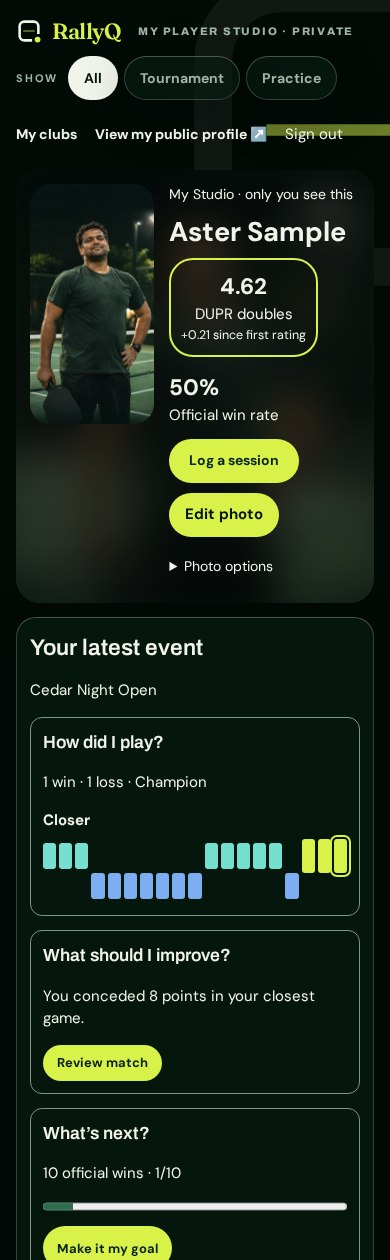
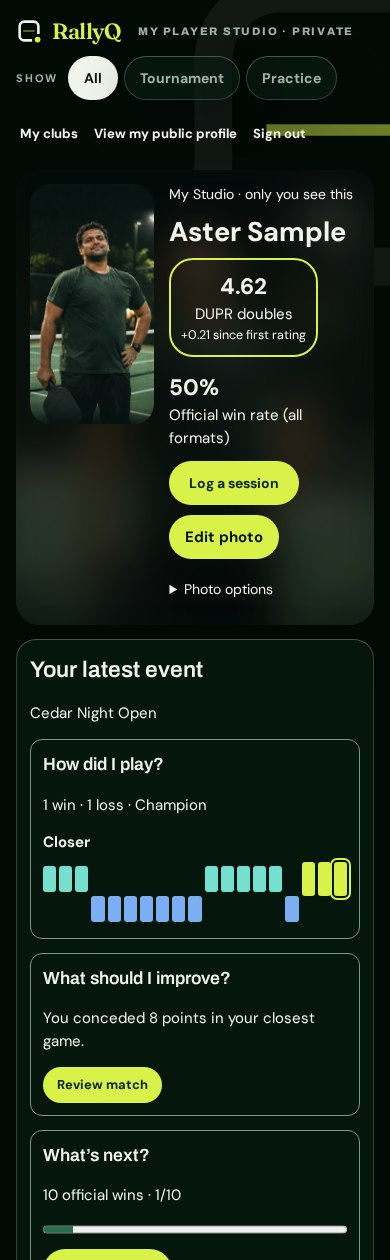
Address Player Studio P0 review

diff --git a/src/rallyq/studio/MyStudio.tsx b/src/rallyq/studio/MyStudio.tsx
@@ -31,7 +31,7 @@ const source=holes(raw,[
  // My tournaments (entries, status, next match) sits above the Studio panels.
  ['<div style="display:grid;grid-template-columns:repeat(auto-fit,minmax(min(100%,380px),1fr));gap:14px">','{{privateCover}}{{latestEvent}}<div>{{myTournaments}}</div><div style="display:grid;grid-template-columns:repeat(auto-fit,minmax(min(100%,380px),1fr));gap:14px">'],
  // Signed-in players can go to My clubs from here (organisers reach this page from My clubs).
- ['<a class="tlink" href="Studio.dc.html">View my public profile ↗</a>','<div class="row" style="gap:18px;flex-wrap:wrap;align-items:center"><a class="tlink" href="Overview.dc.html" style="display:inline-flex;align-items:center;min-height:44px">My clubs</a><sc-if value="{{hasProfile}}" hint-placeholder-val="{{ true }}"><a class="tlink" href="Studio.dc.html" style="display:inline-flex;align-items:center;min-height:44px">View my public profile ↗</a></sc-if><button class="tlink" onClick="{{signOut}}" style="display:inline-flex;align-items:center;min-height:44px;background:none;border:0;padding:0;font:inherit;cursor:pointer">Sign out</button></div>'],
+ ['<a class="tlink" href="Studio.dc.html">View my public profile ↗</a>','<nav class="studio-account-links" aria-label="Studio account"><a class="tlink" href="Overview.dc.html">My clubs</a><sc-if value="{{hasProfile}}" hint-placeholder-val="{{ true }}"><a class="tlink" href="Studio.dc.html">View my public profile</a></sc-if><button class="tlink" onClick="{{signOut}}">Sign out</button></nav>'],
  ['<div class="disp" style="font-size:32px">Goals and coach</div>','<div class="disp" style="font-size:32px">Goals and coach</div><div style="display:grid;grid-template-columns:minmax(0,1fr) 90px auto;gap:8px;align-items:center"><input value="{{goalNew}}" onChange="{{setGoalNew}}" placeholder="New goal, e.g. 4 drop-shot sessions" aria-label="Goal" style="min-height:44px;border-radius:12px;border:0;box-shadow:inset 0 0 0 1px rgba(11,36,24,.2);padding:0 12px;font:inherit;color:#0B2418;background:#FFFFFF;min-width:0"><input value="{{goalNewTarget}}" onChange="{{setGoalNewTarget}}" inputmode="numeric" placeholder="Target" aria-label="Target" style="min-height:44px;border-radius:12px;border:0;box-shadow:inset 0 0 0 1px rgba(11,36,24,.2);padding:0 10px;font:inherit;color:#0B2418;background:#FFFFFF;min-width:0"><button class="btn sm" style="background:#0B2418;color:#D9F24A!important" onClick="{{addGoal}}">Add</button></div><sc-if value="{{goalMsg}}" hint-placeholder-val="{{ false }}"><div style="font-size:12px;color:#4A5D50">{{goalMsg}}</div></sc-if><sc-if value="{{hasGoal}}" hint-placeholder-val="{{ false }}"><button class="btn sm" style="background:#2B6E4B;color:#FFFFFF!important;align-self:flex-start" onClick="{{goalStep}}">+1 on “{{goalTitle}}”</button></sc-if>'],
  ['points won on serve · {{scopeLabel}}','points won · {{scopeLabel}}'],
  ['<span>Comebacks from 5+ down</span><b>4</b>','<span>Comebacks after losing game 1</span><b>{{comebacks}}</b>'],
@@ -110,7 +110,7 @@ export function MyStudio({go,section}:{go:Go;section?:string}){
     <div className="studio-cover-metrics">
      <div className="studio-rating"><b>{rating?.toFixed(2)??'Unrated'}</b><span>DUPR {doubles.length?'doubles':singles.length?'singles':''}</span>
       {delta!==undefined&&<small>{delta>=0?'+':''}{delta.toFixed(2)} since first rating</small>}</div>
-     <div><b>{record.rate===undefined?'—':`${record.rate}%`}</b><br/>Official win rate</div>
+     <div><b>{record.rate===undefined?'—':`${record.rate}%`}</b><br/>Official win rate (all formats)</div>
     </div>
     {ui.f!=='Log'&&<button type="button" className="btn studio-action" onClick={onLog}>Log a session</button>}
     {COVER_UPLOAD&&<CoverEditor store={store} hasPhoto={!!data.photo} onSaved={state.reload} canPublish={!!me}/>}

diff --git a/e2e/tests/studio-p0.spec.ts b/e2e/tests/studio-p0.spec.ts
@@ -74,11 +74,14 @@ test('Studio covers, latest official event and a private practice match', async 
   await expect(cover).toContainText('1 of 1');
   await expect(cover).toContainText('Champion');
   const record = page.getByRole('region', { name: 'Record', exact: true });
-  await expect(record).toContainText('100%');
+  await expect(cover.getByText('Official wins', { exact: true })).toBeVisible();
+  await expect(page.getByText('Best run', { exact: true })).toHaveCount(1);
+  await expect(record.getByText('Best run', { exact: true })).toBeVisible();
+  await expect(record.getByText('Doubles win rate', { exact: true }).locator('..')).toContainText('100%');
   await expect(record).toContainText('Last 1');
   await record.getByRole('button', { name: 'Singles', exact: true }).click();
   await expect(record).toContainText('4.18');
-  await expect(record).toContainText('0%');
+  await expect(record.getByText('Singles win rate', { exact: true }).locator('..')).toContainText('0%');
   await record.getByRole('button', { name: 'Doubles', exact: true }).click();
 
   if (screenshots && info.project.name === 'android') {
@@ -95,6 +98,27 @@ test('Studio covers, latest official event and a private practice match', async 
   const privateCover = page.getByRole('region', { name: 'Private Athlete cover', exact: true });
   const story = page.getByRole('region', { name: 'Your latest event', exact: true });
   await expect(privateCover).toContainText('+0.21 since first rating');
+  await expect(privateCover.getByText(/Official win rate \(all formats\)/)).toContainText('50%');
+  const account = page.getByRole('navigation', { name: 'Studio account' });
+  await expect(account.getByRole('link', { name: 'My clubs', exact: true })).toBeVisible();
+  await expect(account.getByRole('link', { name: 'View my public profile', exact: true })).toBeVisible();
+  await expect(account.getByRole('button', { name: 'Sign out', exact: true })).toBeVisible();
+  for (const width of [320, 390]) {
+    await page.setViewportSize({ width, height: 800 });
+    const targets = await account.locator('a, button').evaluateAll(items => items.map(item => {
+      const target = item.getBoundingClientRect();
+      const text = document.createRange();
+      text.selectNodeContents(item);
+      return { height: target.height, width: target.width, textTop: text.getBoundingClientRect().top };
+    }));
+    for (const target of targets) {
+      expect(target.height).toBeGreaterThanOrEqual(44);
+      expect(target.width).toBeGreaterThanOrEqual(44);
+      expect(target.textTop).toBeCloseTo(targets[0].textTop, 0);
+    }
+    expect(await page.evaluate(() => document.documentElement.scrollWidth)).toBeLessThanOrEqual(width);
+  }
+  await page.setViewportSize({ width: 320, height: 800 });
   await expect(story).toContainText('Cedar Night Open');
   await expect(story).toContainText('1 win · 1 loss');
   await expect(story.getByLabel('Best match DNA')).toBeVisible();

diff --git a/src/rallyq/studio/PublicProfile.smoke.test.tsx b/src/rallyq/studio/PublicProfile.smoke.test.tsx
@@ -1,4 +1,4 @@
-import {fireEvent,render,screen,waitFor} from '@testing-library/react';
+import {fireEvent,render,screen,waitFor,within} from '@testing-library/react';
 import {expect,it,vi} from 'vitest';
 import {parseRoute} from '../../navigation';
 import {PublicProfile} from './PublicProfile';
@@ -7,3 +7,15 @@ vi.mock('../social/posterExport',()=>({posterPng:vi.fn(async()=>new Blob(['png']
 vi.mock('../private/backend',async()=>{const actual=await vi.importActual<typeof import('../private/backend')>('../private/backend');return{...actual,loadPublicPlayer:vi.fn(async(id:string)=>({...actual.samplePublicPlayer(),playerId:id}))}});
 it('opens the staged public-player hash through its real profile component',async()=>{const id='c5aad885-de92-4e28-a5cd-976ea7e9198c';window.location.hash='#/public-player/'+id;const route=parseRoute(window.location.hash);expect(route).toEqual({name:'public-player',id});const go=vi.fn();render(<PublicProfile playerId={route.id} go={go}/>);expect(await screen.findByText('Kiran Sample')).toBeInTheDocument();fireEvent.click(screen.getByRole('link',{name:'Robin Sample'}));expect(go).toHaveBeenCalledWith('public-player','sample-other');});
 it('saves the share card as a real image and marks the sample profile',async()=>{render(<PublicProfile go={vi.fn()}/>);expect(await screen.findByText('Demo profile')).toBeInTheDocument();fireEvent.click(screen.getByRole('tab',{name:'Share card'}));fireEvent.click(screen.getByRole('button',{name:'Save for Instagram'}));expect(await screen.findByRole('button',{name:'Image saved ✓'})).toBeInTheDocument();await waitFor(()=>expect(sharePoster).toHaveBeenCalledOnce());expect(posterPng).toHaveBeenCalledWith(expect.objectContaining({head:'Kiran Sample',chip:'Win',size:'Post 4:5'}));});
+
+it('shows Best run once and labels the win rate for the selected format', async () => {
+ render(<PublicProfile go={vi.fn()} />);
+ const record=within(await screen.findByRole('region',{name:'Record',exact:true}));
+ const cover=within(screen.getByRole('region',{name:'Athlete cover',exact:true}));
+ expect(cover.getByText('Official wins',{exact:true})).toBeVisible();
+ expect(screen.getAllByText('Best run',{exact:true})).toEqual([record.getByText('Best run',{exact:true})]);
+ expect(record.getByText('Doubles win rate',{exact:true}).parentElement).toHaveTextContent('100%');
+ fireEvent.click(record.getByRole('button',{name:'Singles',exact:true}));
+ expect(record.getByText('Singles win rate',{exact:true}).parentElement).toHaveTextContent('—');
+ expect(record.queryByText('Doubles win rate',{exact:true})).toBeNull();
+});

diff --git a/src/rallyq/studio/AthleteCover.tsx b/src/rallyq/studio/AthleteCover.tsx
@@ -27,7 +27,7 @@ function LivePlayerMatch({ slug, matchIds }: NonNullable<PublicRallyPlayer['live
 export function AthleteCover({ player }: { player: PublicRallyPlayer }) {
   const record = studioRecord(player.official);
   const tiles = [
-    ['Best run', record.bestRun ? `${record.bestRun} rallies` : '—'],
+    ['Official wins', String(record.wins)],
     ['Biggest comeback', record.comeback ? `${record.comeback.from} → ${record.comeback.to}` : '—'],
     ['Game points won', record.gamePoints ? `${record.closed} of ${record.gamePoints}` : '—'],
     ['Best finish', record.finish === 'Champion' ? 'Champion · ' + player.official.find(m => m.stage === 'final' && matchWon(m))?.tournament : record.finish || '—'],
@@ -60,7 +60,7 @@ export function PlayerRecord({ player }: { player: PublicRallyPlayer }) {
     </div>
     <dl className="athlete-tiles">
       <div><dt>Matches</dt><dd>{record.played}</dd></div>
-      <div><dt>Win rate</dt><dd>{record.rate === undefined ? '—' : `${record.rate}%`}</dd></div>
+      <div><dt>{kind === 'doubles' ? 'Doubles' : 'Singles'} win rate</dt><dd>{record.rate === undefined ? '—' : `${record.rate}%`}</dd></div>
       <div><dt>Best run</dt><dd>{record.bestRun || '—'}</dd></div>
       <div><dt>DUPR</dt><dd>{rating(kind === 'doubles' ? player.duprDoubles : player.duprSingles)}</dd></div>
     </dl>

diff --git a/src/rallyq/studio/athleteCover.css b/src/rallyq/studio/athleteCover.css
@@ -123,3 +123,26 @@
   color: #f1f4ea;
 }
 @media (min-width: 640px) { .studio-cover-portrait { min-height: 320px; } }
+
+.studio-account-links {
+  display: flex;
+  align-items: center;
+  gap: clamp(4px, 2vw, 18px);
+  min-width: 0;
+}
+.rallyq-prototype.rallyq-prototype .rq .studio-account-links .tlink {
+  display: inline-flex;
+  align-items: center;
+  justify-content: center;
+  min-width: 44px;
+  min-height: 44px;
+  padding: 0 4px;
+  border: 0;
+  background: none;
+  font: inherit;
+  font-size: clamp(.75rem, 3.35vw, .9375rem);
+  font-weight: 700;
+  line-height: 1.25;
+  white-space: nowrap;
+  cursor: pointer;
+}
